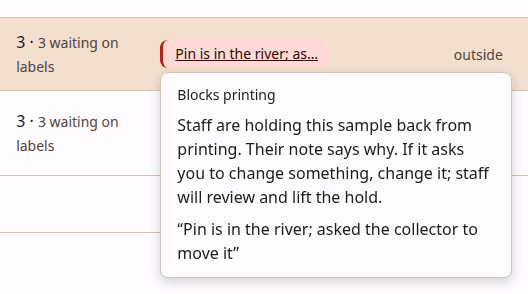
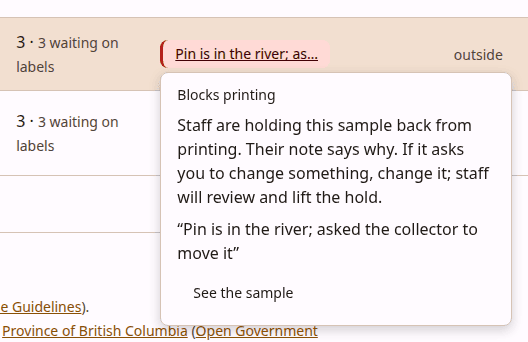
Gather the Flags column's kinds of flag with the counts, and read only two rules' words (beeline-ik0d)
Reading every finding for the page afterwards, or gathering every sample's
details with the counts, added 35-66% to each samples page on production's
store. The kinds of flag now come with the counts at no cost, and only the
two chips made from a finding (missing fields, a hold's reason) read their
rule's own view for the page's samples; the panel links to the sample for
the rest. The CSV download skips even that. Samples pages are now within
0-5% of main.

diff --git a/src/app/listings.ts b/src/app/listings.ts
@@ -554,6 +554,12 @@ export interface ListingPageOptions {
   /** False skips counting the whole selection; `total` is then 0. */
   withTotal?: boolean;
   /**
+   * False skips reading the findings whose words make a Flags chip
+   * (findingWords): a download shows no chips. The kinds of flag are still
+   * listed, since they come free with the counts.
+   */
+  withFlagWords?: boolean;
+  /**
    * Only samples collected in this calendar year, judged on their first day
    * (no sample on the dev store spans New Year). Not a listing filter — the
    * listings have none, by design — but the grain the program archives are
@@ -716,6 +722,48 @@ const QC_COUNT_SELECTIONS = [
   sql<number>`CAST(sum(CASE WHEN r.severity = 'blocking' THEN 1 ELSE 0 END) AS INTEGER)`.as("blocking"),
   sql<number>`CAST(sum(CASE WHEN r.severity = 'warning' THEN 1 ELSE 0 END) AS INTEGER)`.as("warning"),
 ] as const;
+
+/**
+ * Which kinds of flag each sample carries, for the Flags column
+ * (beeline-ik0d), gathered in the pass that counts them: as rule names it
+ * costs nothing more, measured on production's store. What the findings say
+ * costs more than it is worth here. Gathered in this pass, it adds about a
+ * third to every samples page, since every sample's details are built to be
+ * aggregated; asked for afterwards by the page's ids, the union of rules is
+ * built again over every sample, the ids not reaching inside it, which cost
+ * the same. So only the two chips whose words come from a finding read
+ * their rule's own view, for the page's samples (findingWords), and the rest
+ * leave their details to the sample page. "rule:severity", comma-separated.
+ */
+const FLAG_LIST = sql<string | null>`string_agg(DISTINCT concat(f.rule_name, ':', r.severity), ',')`.as("flag_list");
+
+/** The kinds of flag a sample carries, blocking first, then by rule. */
+function parseFlags(list: string | null): ListedFlag[] {
+  return (list ?? "")
+    .split(",")
+    .filter((entry) => entry !== "")
+    .map((entry) => {
+      const [rule, severity] = entry.split(":") as [QcRuleName, "blocking" | "warning"];
+      return { rule, severity, details: [] as string[] };
+    })
+    .sort((a, b) => (a.severity === b.severity ? a.rule.localeCompare(b.rule) : a.severity === "blocking" ? -1 : 1));
+}
+
+/**
+ * The findings whose words make their chip — which fields are missing, and a
+ * hold's reason — for one page of samples, each from its rule's own view,
+ * which is cheap where the union is not (about 8 ms for a page of 50).
+ */
+async function findingWords(db: Kysely<Database>, sampleIds: number[]) {
+  if (sampleIds.length === 0) return [];
+  const ids = sql.join(sampleIds);
+  return (
+    await sql<{ sample_id: number; rule_name: QcRuleName; details: string | null }>`
+      SELECT sample_id, rule_name, details FROM qc_rule_missing_required_field WHERE sample_id IN (${ids})
+      UNION ALL
+      SELECT sample_id, rule_name, details FROM qc_rule_staff_hold WHERE sample_id IN (${ids})`.execute(db)
+  ).rows;
+}
 
 /** The place columns as one haystack: a person types a place, not a column. */
 /**
@@ -913,7 +961,7 @@ export async function listSamples(
           .innerJoin("qc_rule as r", "r.name", "f.rule_name")
           .where("f.sample_id", "is not", null)
           .groupBy("f.sample_id")
-          .select(["f.sample_id as sample_id", ...QC_COUNT_SELECTIONS])
+          .select(["f.sample_id as sample_id", ...QC_COUNT_SELECTIONS, FLAG_LIST])
           .as("qc"),
       (join) => join.onRef("qc.sample_id", "=", "s.entity_id"),
     );
@@ -1055,6 +1103,7 @@ export async function listSamples(
         hidden.as("location_withheld"),
         blockingCount.as("blocking"),
         warningCount.as("warning"),
+        sql<string | null>`qc.flag_list`.as("flag_list"),
         sql<boolean>`EXISTS (SELECT 1 FROM sample_collector mine
                              WHERE mine.sample_id = s.entity_id AND mine.person_id = ${personId})`.as("mine"),
         sql<boolean>`EXISTS (SELECT 1 FROM printed_sample ps WHERE ps.sample_id = s.entity_id)`.as("printed"),
@@ -1083,9 +1132,17 @@ export async function listSamples(
     // A streamed download pages through everything and never shows a total.
     opts.withTotal === false ? Promise.resolve(undefined) : base.select(({ fn }) => fn.countAll().as("n")).executeTakeFirst(),
   ]);
-  const sampleRows = rows as unknown as SampleRow[];
+  const sampleRows = rows as unknown as Array<SampleRow & { flag_list: string | null }>;
   const ids = sampleRows.map((r) => r.sample_id);
-  const [collectors, findings] = await Promise.all([collectorsOf(db, ids), findingsOf(db, ids)]);
+  const findings = new Map(sampleRows.map((r) => [r.sample_id, parseFlags(r.flag_list)] as const));
+  const [collectors, words] = await Promise.all([
+    collectorsOf(db, ids),
+    opts.withFlagWords === false ? Promise.resolve([]) : findingWords(db, ids),
+  ]);
+  for (const w of words) {
+    const flag = findings.get(Number(w.sample_id))?.find((x) => x.rule === w.rule_name);
+    if (flag !== undefined && w.details !== null && w.details !== "") flag.details.push(w.details);
+  }
   return {
     rows: sampleRows,
     total: Number(count?.n ?? 0),
@@ -1096,37 +1153,13 @@ export async function listSamples(
 
 /**
  * One kind of flag on a sample, as the Flags column shows it (beeline-ik0d):
- * the rule, whether it blocks printing, and what its findings say, one entry
- * per finding (a rule can fire once per specimen).
+ * the rule, whether it blocks printing, and, for the two rules whose chip is
+ * made from them (findingWords), what its findings say.
  */
 export interface ListedFlag {
   rule: QcRuleName;
   severity: "blocking" | "warning";
   details: string[];
-}
-
-/** sample_id → its flags, blocking ones first, for one page of samples. */
-async function findingsOf(db: Kysely<Database>, sampleIds: number[]): Promise<Map<number, ListedFlag[]>> {
-  const out = new Map<number, ListedFlag[]>();
-  if (sampleIds.length === 0) return out;
-  const result = await sql<{ sample_id: number; rule_name: QcRuleName; severity: "blocking" | "warning"; details: string | null }>`
-    SELECT f.sample_id, f.rule_name, r.severity, f.details
-    FROM sample_qc_finding f
-    JOIN qc_rule r ON r.name = f.rule_name
-    WHERE f.sample_id IN (${sql.join(sampleIds)})
-    ORDER BY f.sample_id, CASE r.severity WHEN 'blocking' THEN 0 ELSE 1 END, f.rule_name, f.details`.execute(db);
-  for (const row of result.rows) {
-    const id = Number(row.sample_id);
-    const flags = out.get(id) ?? [];
-    let flag = flags.find((x) => x.rule === row.rule_name);
-    if (flag === undefined) {
-      flag = { rule: row.rule_name, severity: row.severity, details: [] };
-      flags.push(flag);
-    }
-    if (row.details !== null && row.details !== "") flag.details.push(row.details);
-    out.set(id, flags);
-  }
-  return out;
 }
 
 export async function listSpecimens(

diff --git a/src/app/messages/en.ts b/src/app/messages/en.ts
@@ -851,8 +851,8 @@ export const en = {
       /** For screen readers and the hover text: colour alone cannot say it. */
       flagSeverity: { blocking: "Blocks printing", warning: "Heads-up" },
       flagMore: (count: number) => `+${n(count)} more`,
-      flagOpen: (name: string, severity: string) => `${name}: ${severity}. Show what to do`,
-    },
+      /** In a flag's panel: its details, how far over a limit and the like, are on the sample's page. */
+      flagSeeSample: "See the sample",    },
 
     paging: {
       page: (page: number, pages: number) => `Page ${n(page)} of ${n(pages)}`,

diff --git a/src/app/server.tsx b/src/app/server.tsx
@@ -871,7 +871,7 @@ export function createApp({
     // The whole selection, a page at a time: no cap, no truncation line.
     const body = csvStream(
       SAMPLE_CSV_HEADER,
-      (limit, offset) => listSamples(db, query, personId, reader, { limit, offset, withTotal: false }),
+      (limit, offset) => listSamples(db, query, personId, reader, { limit, offset, withTotal: false, withFlagWords: false }),
       sampleCsvRow,
       csvGenerationTiming("samples"),
     );

diff --git a/src/app/views/listings.tsx b/src/app/views/listings.tsx
@@ -452,6 +452,7 @@ function FlagsCell({ m, flags, sampleId }: { m: Messages; flags: readonly Listed
                   <FindingDetail details={d} ruleName={flag.rule} />
                 </p>
               ))}
+              <a href={sampleHref(sampleId)}>{s.flagSeeSample}</a>
             </div>
           </details>
         );

diff --git a/docs/architecture/browsing-scope-filters-sort.md b/docs/architecture/browsing-scope-filters-sort.md
@@ -2,6 +2,6 @@
 
 Part of Beeline's architecture notes; the index is in [AGENTS.md](../../AGENTS.md#architecture-overview).
 
-Browsing lives at `/samples` and `/specimens` (`src/app/listings.ts` + `src/app/views/listings.tsx`, beeline-2c3.21): the same paged table at two grains, with scope, filters, search, sort and page all in the query string so a filtered listing is a shareable URL, and a CSV of exactly what the filters select — in Darwin Core terms wherever one exists (the pin's number is `fieldNumber` and `catalogNumber` the museum's, filled only where Ecdysis has reported it, per ADR 0008's amendment and gh-98; the sample number is `fieldNumber` on the samples download and `sampleNumber` on the specimens one), UTF-8 with a BOM, `\n` line endings, and streamed whole a page at a time, so it has no cap and no line that is not a record; a numeric cell is never formula-guarded, since a guarded longitude is `'-123.26`, text. Reshaped with Peter and Nora on the sandbox (2026-09-16): each column heading opens a menu holding that column's two sort orders and its filter — a listing *describes* its columns as `TableColumn` specs and `DataTable` draws them, through the one `ColumnMenu` in the component library (the header's `<details class="menu">` with the panel fixed so the wrapper's sideways scroll cannot clip it), so every menu wears the same chevron, the order in force is a separate arrow with `aria-sort` on the heading cell, and no screen can draw a heading differently from the next; it was written out twice at first, for the listings and for People, and the two had drifted within a day (Peter, 2026-09-17) — whose form carries the rest of the query as hidden inputs (`listingParams` is the one place the query becomes a query string, so hidden inputs and hrefs agree); what is in force reads off a row of dismissable pills, not off ten controls. Above the table sit the search box and a three-way toggle — my records, my atlas's (from `person_membership`), all — with other atlases and the ground outside them reached through the Atlas column and shown as a pill. There is no season filter: the dashboard's link to settled seasons names a date, the day before `season.active_since`. A record's number is a pill, the iNaturalist link is the wordmark, the host plant is a column on both listings, the samples listing says whether each sample was netted or trapped — a Method column, the sample page's word, with a filter and no order, since sorting two values only puts one first; the filter (`kind`) narrows specimens too, by the sample they came from — whether labels are on paper is a filter (`labels`, beeline-3v33) in the Specimens column's menu on samples and the Field number column's on specimens: a sample is waiting on labels while any specimen of an active season has none on paper, held back by a flag or in a run not yet printed (`sample_labels_waiting`, `schema/155`), and its count is written beside the specimens; a specimen asks of its own label (`specimen_on_paper`, `schema/101`, the per-specimen test `printed_sample` is now read from, so the filter and the rule that stops a printed sample following iNaturalist cannot disagree) — the samples listing's Flags cell names each kind of flag on the row in a word or two (beeline-ik0d, Peter 2026-11-04; the words in `listings.status.flag`, held to `qc_rule` by a test), a missing field naming the field and a hold showing its reason, coloured for whether it blocks printing and opening, as a `details.menu`, onto the rule's instruction and the row's details, since a phone has no hover; colour is not the only signal, the severity being in each chip's accessible name and at the head of its panel, with blocking flags first, and a symbol for it waits on the domain icon set (beeline-2c3.14); three show and the rest are a link to the sample; and the column's menu filters to one kind (`flag`) beside the severity filter — the specimens listing also carries the date the determination of record was made — an order and no filter, since "what came back from the taxonomist this winter" is asked by sorting, and a dash where the source gave no date, which is most legacy determinations — and on a wide screen the heading row is sticky — which needs the wrapper to stop being a scroll container, since sticky positions against the nearest one, so `main > .table-scroll` is `overflow: visible` from 64rem up. A session is keyed by `inat_user_id`, never by `person.entity_id`: that is a per-store sequence draw a rebuild or `db:reseed` redraws, so a session holding one resolved to whoever inherited the number and a volunteer browsed as somebody else under the `mine` scope forced for them (beeline-ten). The person is resolved through `inat_account` per request, which also makes unbinding an account end its sessions and rebinding move them. A private store predating that change is repaired at boot — it outlives the blow-away era, so its schema changes are patched in `src/app/db.ts` rather than by rebuild, per table rather than all-or-nothing, because a store that holds some of its tables and not others is a state that patch itself can create. Resolution failing is not revocation: an unbound session stops sliding its `last_seen_at` so the idle cutoff never reaches it, and rebinding that iNat user would revive every cookie ever issued for it as whoever now holds the account — so `endSessionsFor` runs on both sides of an account change and the idle purge collects orphans. Scope is `mine` (where everyone starts), one atlas, `outside` (collected where no member atlas reaches), or all of them, and every scope is open to everyone: a volunteer sees every record, at minimum what iNaturalist already shows them (Peter, 2026-10-23, beeline-20w3). Until then `mine` was forced for volunteers at parse time, and the scope picker, the collector filter and the `member` filter were staff's. Scope asks where a sample fell; the `member` filter asks where its collector belongs, and the two genuinely disagree — most records from outside the atlases are members travelling (beeline-lcl). **What a reader may not see is a location**: where a sample's observation is obscured or private on iNaturalist (`sample.geoprivacy` or `taxon_geoprivacy`), or the sample cites an observation no sync has read, so that nobody here knows whether it is (1,537 legacy-linked samples on the dev store until the nightly began reading them by id, and the 404 whose observation iNaturalist no longer has after), and the reader is neither staff nor one of its collectors — a co-collector counts, and so does whoever acts for one, since a delegate reads a household's records as the household does — the row carries no coordinates, uncertainty, elevation or locality, and no county either where the observation is private, which is what iNaturalist shows them. iNaturalist's own shifted point is not offered instead; nobody has a use for it (Peter). The rule is `withheld` in `src/app/listings.ts`, applied in the query rather than the view — the location join yields nothing and the place columns read through a CASE — so the place filter, the place sort and the CSV all see the hidden values, and a search cannot find a record by a locality it would not show; the record pages reuse it, and drop with it the observation's place guess, the overrides, the history of where the sample was and what its findings quote. The observer's notes stay, as iNaturalist shows them to everyone, though they are where a volunteer writes the spot: iNaturalist's own handling is half-hearted and nobody has a better rule (Peter, 2026-10-23). Downloads carry coordinates otherwise, with their provenance and geoprivacy beside them: the open per-atlas question ([docs/questions.md](../questions.md)) is about revealing taxon-obscured coordinates *downstream* — on labels, to Ecdysis and GBIF — not about showing a participant their own data, and CONTEXT.md's stance is that anyone trusted with this store is trusted with them. Dashboards scope to the active seasons: the current one, and last season until 1 March, when it settles (`season`/`settled_sample`, CONTEXT.md's **Season**), still flagged and still fixable but no longer asking.
+Browsing lives at `/samples` and `/specimens` (`src/app/listings.ts` + `src/app/views/listings.tsx`, beeline-2c3.21): the same paged table at two grains, with scope, filters, search, sort and page all in the query string so a filtered listing is a shareable URL, and a CSV of exactly what the filters select — in Darwin Core terms wherever one exists (the pin's number is `fieldNumber` and `catalogNumber` the museum's, filled only where Ecdysis has reported it, per ADR 0008's amendment and gh-98; the sample number is `fieldNumber` on the samples download and `sampleNumber` on the specimens one), UTF-8 with a BOM, `\n` line endings, and streamed whole a page at a time, so it has no cap and no line that is not a record; a numeric cell is never formula-guarded, since a guarded longitude is `'-123.26`, text. Reshaped with Peter and Nora on the sandbox (2026-09-16): each column heading opens a menu holding that column's two sort orders and its filter — a listing *describes* its columns as `TableColumn` specs and `DataTable` draws them, through the one `ColumnMenu` in the component library (the header's `<details class="menu">` with the panel fixed so the wrapper's sideways scroll cannot clip it), so every menu wears the same chevron, the order in force is a separate arrow with `aria-sort` on the heading cell, and no screen can draw a heading differently from the next; it was written out twice at first, for the listings and for People, and the two had drifted within a day (Peter, 2026-09-17) — whose form carries the rest of the query as hidden inputs (`listingParams` is the one place the query becomes a query string, so hidden inputs and hrefs agree); what is in force reads off a row of dismissable pills, not off ten controls. Above the table sit the search box and a three-way toggle — my records, my atlas's (from `person_membership`), all — with other atlases and the ground outside them reached through the Atlas column and shown as a pill. There is no season filter: the dashboard's link to settled seasons names a date, the day before `season.active_since`. A record's number is a pill, the iNaturalist link is the wordmark, the host plant is a column on both listings, the samples listing says whether each sample was netted or trapped — a Method column, the sample page's word, with a filter and no order, since sorting two values only puts one first; the filter (`kind`) narrows specimens too, by the sample they came from — whether labels are on paper is a filter (`labels`, beeline-3v33) in the Specimens column's menu on samples and the Field number column's on specimens: a sample is waiting on labels while any specimen of an active season has none on paper, held back by a flag or in a run not yet printed (`sample_labels_waiting`, `schema/155`), and its count is written beside the specimens; a specimen asks of its own label (`specimen_on_paper`, `schema/101`, the per-specimen test `printed_sample` is now read from, so the filter and the rule that stops a printed sample following iNaturalist cannot disagree) — the samples listing's Flags cell names each kind of flag on the row in a word or two (beeline-ik0d, Peter 2026-11-04; the words in `listings.status.flag`, held to `qc_rule` by a test), a missing field naming the field and a hold showing its reason, coloured for whether it blocks printing and opening, as a `details.menu`, onto the rule's instruction and a link to the sample, since a phone has no hover; the kinds of flag are gathered in the pass that counts them, which costs nothing more, but what the findings say is not, because building every sample's details for the aggregate added about a third to the page and asking for the page's afterwards rebuilt the whole union of rules, so only the two chips made from a finding read their rule's own view for the page's samples (`findingWords`) and the rest leave their details to the sample page; colour is not the only signal, the severity being in each chip's accessible name and at the head of its panel, with blocking flags first, and a symbol for it waits on the domain icon set (beeline-2c3.14); three show and the rest are a link to the sample; and the column's menu filters to one kind (`flag`) beside the severity filter — the specimens listing also carries the date the determination of record was made — an order and no filter, since "what came back from the taxonomist this winter" is asked by sorting, and a dash where the source gave no date, which is most legacy determinations — and on a wide screen the heading row is sticky — which needs the wrapper to stop being a scroll container, since sticky positions against the nearest one, so `main > .table-scroll` is `overflow: visible` from 64rem up. A session is keyed by `inat_user_id`, never by `person.entity_id`: that is a per-store sequence draw a rebuild or `db:reseed` redraws, so a session holding one resolved to whoever inherited the number and a volunteer browsed as somebody else under the `mine` scope forced for them (beeline-ten). The person is resolved through `inat_account` per request, which also makes unbinding an account end its sessions and rebinding move them. A private store predating that change is repaired at boot — it outlives the blow-away era, so its schema changes are patched in `src/app/db.ts` rather than by rebuild, per table rather than all-or-nothing, because a store that holds some of its tables and not others is a state that patch itself can create. Resolution failing is not revocation: an unbound session stops sliding its `last_seen_at` so the idle cutoff never reaches it, and rebinding that iNat user would revive every cookie ever issued for it as whoever now holds the account — so `endSessionsFor` runs on both sides of an account change and the idle purge collects orphans. Scope is `mine` (where everyone starts), one atlas, `outside` (collected where no member atlas reaches), or all of them, and every scope is open to everyone: a volunteer sees every record, at minimum what iNaturalist already shows them (Peter, 2026-10-23, beeline-20w3). Until then `mine` was forced for volunteers at parse time, and the scope picker, the collector filter and the `member` filter were staff's. Scope asks where a sample fell; the `member` filter asks where its collector belongs, and the two genuinely disagree — most records from outside the atlases are members travelling (beeline-lcl). **What a reader may not see is a location**: where a sample's observation is obscured or private on iNaturalist (`sample.geoprivacy` or `taxon_geoprivacy`), or the sample cites an observation no sync has read, so that nobody here knows whether it is (1,537 legacy-linked samples on the dev store until the nightly began reading them by id, and the 404 whose observation iNaturalist no longer has after), and the reader is neither staff nor one of its collectors — a co-collector counts, and so does whoever acts for one, since a delegate reads a household's records as the household does — the row carries no coordinates, uncertainty, elevation or locality, and no county either where the observation is private, which is what iNaturalist shows them. iNaturalist's own shifted point is not offered instead; nobody has a use for it (Peter). The rule is `withheld` in `src/app/listings.ts`, applied in the query rather than the view — the location join yields nothing and the place columns read through a CASE — so the place filter, the place sort and the CSV all see the hidden values, and a search cannot find a record by a locality it would not show; the record pages reuse it, and drop with it the observation's place guess, the overrides, the history of where the sample was and what its findings quote. The observer's notes stay, as iNaturalist shows them to everyone, though they are where a volunteer writes the spot: iNaturalist's own handling is half-hearted and nobody has a better rule (Peter, 2026-10-23). Downloads carry coordinates otherwise, with their provenance and geoprivacy beside them: the open per-atlas question ([docs/questions.md](../questions.md)) is about revealing taxon-obscured coordinates *downstream* — on labels, to Ecdysis and GBIF — not about showing a participant their own data, and CONTEXT.md's stance is that anyone trusted with this store is trusted with them. Dashboards scope to the active seasons: the current one, and last season until 1 March, when it settles (`season`/`settled_sample`, CONTEXT.md's **Season**), still flagged and still fixable but no longer asking.
 
 On `/samples` the Place cell of a sample whose locality the reader may change carries a pencil (beeline-7ywr, Peter, 2026-11-04): it opens, in the cell, a combobox of iNaturalist's own locality and the names suggested from the coordinates, each listed with the sample's county and state as the column writes the place but saved as the locality alone (a choice's `label`, which the island shows in place of its value), free for staff to write one in, and Save posts to `/samples/:id/place`, which works out from the name alone what to write (empty or iNaturalist's name follows iNaturalist again, a suggested name is adopted, anything else is written in) and makes the sample page's own writes with its permissions, then returns to the same listing. It is a `<details>`, so it opens without scripting, where the combobox is a text box with a `<datalist>`. The status filter's sixth value, `locality` ("Locality missing or unusable"), lists the samples it is for. Immediately above the table sits a row of what can be done with its rows (Peter, 2026-10-31): a Download menu on both listings, holding the CSV and what it contains, with room for other forms (a KML has been mentioned), and on `/specimens` the bulk actions staff have. Bulk actions are chosen first: a button names the action, and pressing it puts the listing in that action's mode (`act` in the query, carried by `listingHref` like any filter, and kept by Clear), with tick boxes only on the rows it can take (beeline-1kb.23). Marking labels for reprint is the only one so far; [Printing](printing.md) describes it.
